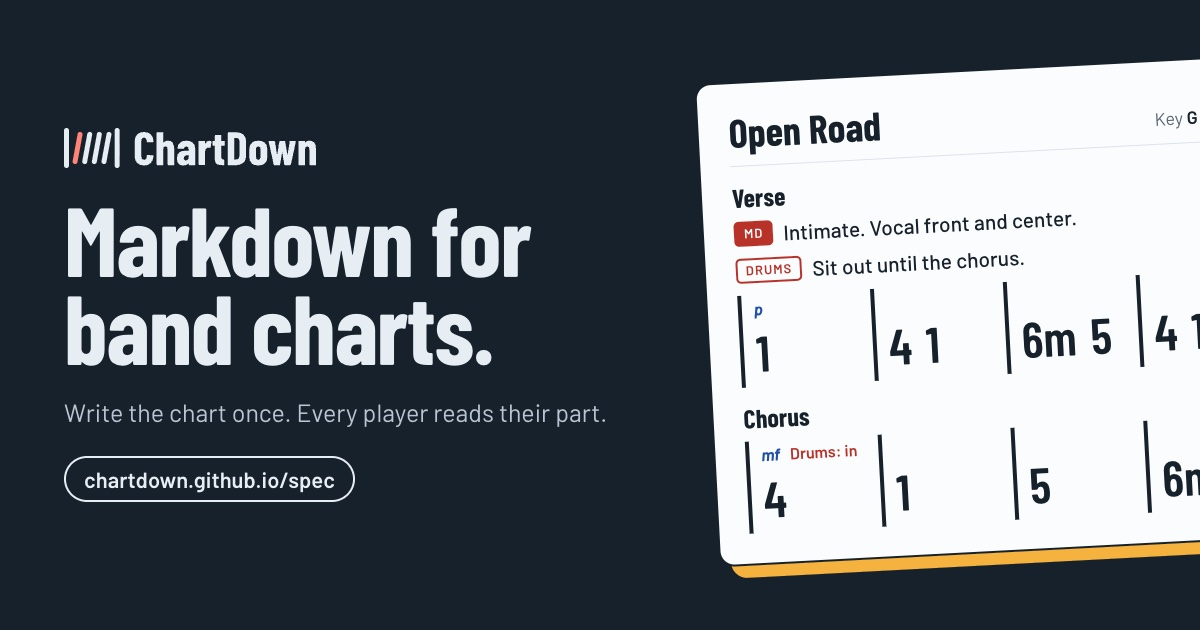
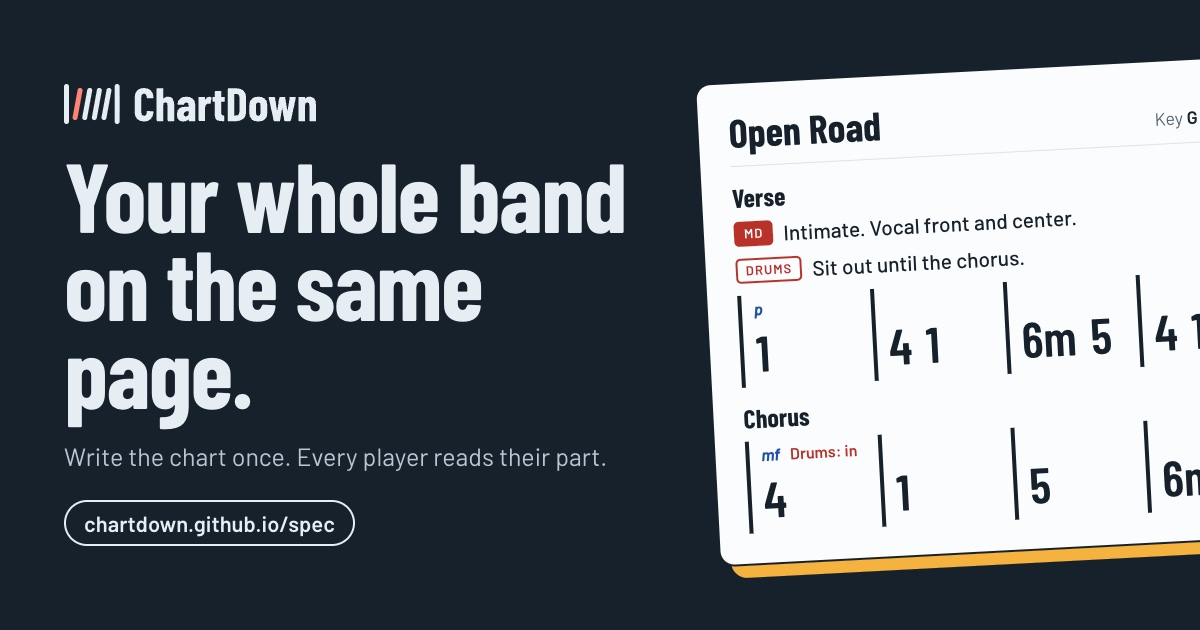
Lead with the musician's tagline: your whole band on the same page
Page titles, social previews and the landing lede now say "your whole
band on the same page" / "toda la banda en la misma página". Markdown
stays as a comparison at the end of the lede and in the README, for
technical readers.

Claude-Session: https://claude.ai/code/session_012fLWEqh2mjd7u6Mrvhgobh

Changed region(s): [[0.0308, 0.1206, 0.5242, 0.7841], [0.0617, 0.8143, 0.2775, 0.8746], [0.2775, 0.7841, 0.3083, 0.8143]]

diff --git a/index.html b/index.html
@@ -3,16 +3,16 @@
 <head>
 <meta charset="utf-8">
 <meta name="viewport" content="width=device-width, initial-scale=1">
-<title>ChartDown: Markdown for band charts</title>
+<title>ChartDown: your whole band on the same page</title>
 <meta name="description" content="ChartDown is an open plain-text notation for Nashville Number System charts, with music director cues for every player.">
 <meta name="theme-color" content="#16212c">
-<meta property="og:title" content="ChartDown: Markdown for band charts">
+<meta property="og:title" content="ChartDown: your whole band on the same page">
 <meta property="og:description" content="Write the chart once, in plain text. Every player reads their part.">
 <meta property="og:type" content="website">
 <meta property="og:image" content="https://chartdown.github.io/spec/assets/social/og-en.jpg">
 <meta property="og:image:width" content="1200">
 <meta property="og:image:height" content="630">
-<meta property="og:image:alt" content="ChartDown: Markdown for band charts. Write the chart once. Every player reads their part.">
+<meta property="og:image:alt" content="ChartDown: your whole band on the same page. Write the chart once. Every player reads their part.">
 <meta property="og:url" content="https://chartdown.github.io/spec/">
 <meta name="twitter:card" content="summary_large_image">
 <meta name="twitter:image" content="https://chartdown.github.io/spec/assets/social/og-en.jpg">
@@ -288,7 +288,7 @@ html.fx .join.in .card:nth-child(3){transition-delay:.24s}
     <div class="wrap">
       <p class="pill rise" style="--d:100"><b>0.7</b><span data-i18n="eyebrow">Open spec · Public domain</span></p>
       <h1 class="mega" id="h1"><span class="rise" style="--d:200" data-i18n="h1a">Write it once.</span><span class="rise" style="--d:340" data-i18n="h1b">Share it many times.</span></h1>
-      <p class="lede rise" style="--d:500" data-i18n-html="lede">ChartDown is Markdown for band charts: the Nashville Number System in plain text, with the music director's cues for every player.</p>
+      <p class="lede rise" style="--d:500" data-i18n-html="lede">ChartDown puts your whole band on the same page: the Nashville Number System in plain text, with the music director's cues for every player. Think Markdown, for band charts.</p>
       <div class="btns rise" style="--d:640">
         <a class="btn solid" href="playground/"><span data-i18n="ctaPlay">Write your first chart</span><svg viewBox="0 0 24 24" fill="none" stroke="currentColor" stroke-width="2" stroke-linecap="round" stroke-linejoin="round" aria-hidden="true"><path d="M5 12h14M13 6l6 6-6 6"/></svg></a>
         <a class="btn" href="https://github.com/ChartDown/spec/blob/main/docs/guide.md" data-guide data-i18n="ctaGuide">Read the 5-minute guide</a>
@@ -612,12 +612,12 @@ meter: 4/4
 
 const T = {
 en:{
-  title:"ChartDown: Markdown for band charts",
+  title:"ChartDown: your whole band on the same page",
   desc:"ChartDown is an open plain-text notation for Nashville Number System charts, with music director cues for every player.",
   skip:"Skip to content", navLabel:"Main", navGuide:"Guide", navSpec:"Spec", navPlay:"Playground",
   eyebrow:"Open spec · Public domain",
   h1a:"Write it once.", h1b:"Share it many times.",
-  lede:"ChartDown is Markdown for band charts: the Nashville Number System in plain text, with the music director's cues for every player.",
+  lede:"ChartDown puts your whole band on the same page: the Nashville Number System in plain text, with the music director's cues for every player. Think Markdown, for band charts.",
   ctaPlay:"Write your first chart", ctaGuide:"Read the 5-minute guide",
   artAlt:"A pencil drawing of a stage: keys, drums on a riser, a bass amp and bass, a microphone in front, and a music stand with a chart for every player",
   hearA:"Every player hears the song differently.", hearB:"One chart can answer all of them.",
@@ -647,12 +647,12 @@ en:{
   guide:"docs/guide.md"
 },
 es:{
-  title:"ChartDown: Markdown para charts de banda",
+  title:"ChartDown: toda la banda en la misma página",
   desc:"ChartDown es una notación abierta en texto plano para charts del sistema Nashville, con indicaciones del director musical para cada músico.",
   skip:"Saltar al contenido", navLabel:"Principal", navGuide:"Guía", navSpec:"Spec", navPlay:"Playground",
   eyebrow:"Spec abierta · Dominio público",
   h1a:"Escríbelo una vez.", h1b:"Compártelo muchas veces.",
-  lede:"ChartDown es Markdown para charts de banda: el sistema de números Nashville en texto plano, con las indicaciones del director para cada músico.",
+  lede:"ChartDown pone a toda la banda en la misma página: el sistema de números Nashville en texto plano, con las indicaciones del director para cada músico. Como Markdown, pero para charts de banda.",
   ctaPlay:"Escribe tu primer chart", ctaGuide:"Lee la guía de 5 minutos",
   artAlt:"Dibujo a lápiz de un escenario: teclados, batería sobre una tarima, amplificador y bajo, un micrófono al frente y un atril con su chart para cada músico",
   hearA:"Cada músico escucha la canción distinto.", hearB:"Un solo chart puede responderles a todos.",

diff --git a/playground/index.html b/playground/index.html
@@ -12,7 +12,7 @@
 <meta property="og:image" content="https://chartdown.github.io/spec/assets/social/og-en.jpg">
 <meta property="og:image:width" content="1200">
 <meta property="og:image:height" content="630">
-<meta property="og:image:alt" content="ChartDown: Markdown for band charts. Write the chart once. Every player reads their part.">
+<meta property="og:image:alt" content="ChartDown: your whole band on the same page. Write the chart once. Every player reads their part.">
 <meta property="og:url" content="https://chartdown.github.io/spec/playground/">
 <meta name="twitter:card" content="summary_large_image">
 <meta name="twitter:image" content="https://chartdown.github.io/spec/assets/social/og-en.jpg">
